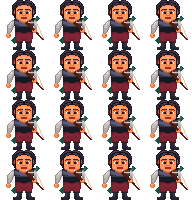
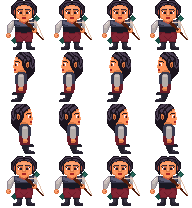
West and East directions added to player.

diff --git a/js/warrior.js b/js/warrior.js
@@ -106,19 +106,19 @@ function warriorClass() {
             nextY += playerMoveSpeed;
             direction = "south";
             this.sx = 0;
-            this.sy = 0;
+            this.sy = 52*3;
         }
         if (this.keyHeld_WalkWest) {
             nextX -= playerMoveSpeed;
             direction = "west";
             this.sx = 0;
-            this.sy = 0;
+            this.sy = 52*1;
         }
         if (this.keyHeld_WalkEast) {
             nextX += playerMoveSpeed;
             direction = "east";
             this.sx = 0;
-            this.sy = 0;
+            this.sy = 52*2;
         }
 
         if (this.keyHeld_WalkNorth || this.keyHeld_WalkSouth || this.keyHeld_WalkWest || this.keyHeld_WalkEast) {
